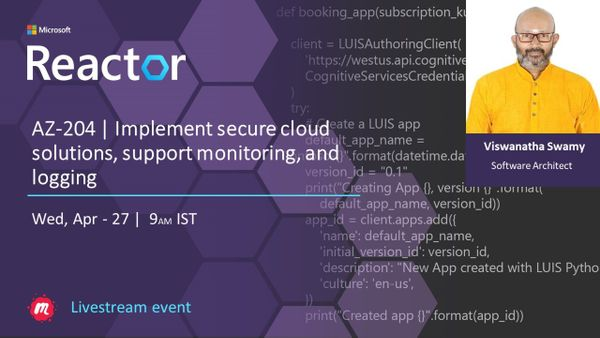
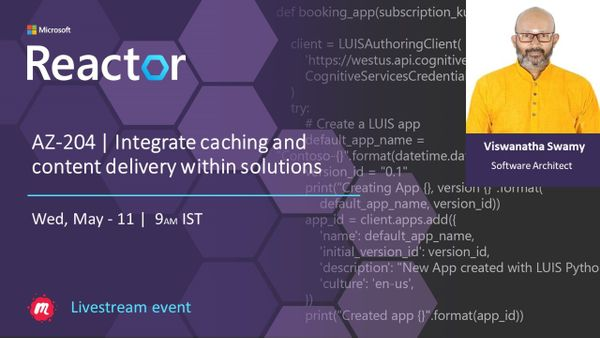
ReadMe Updates

Changed region(s): [[0.03, 0.355, 0.57, 0.5621], [0.12, 0.6213, 0.36, 0.6805]]

diff --git a/microsoft-reactor/S15_2022May11_Caching_and_CDN/README.md b/microsoft-reactor/S15_2022May11_Caching_and_CDN/README.md
@@ -1,6 +1,6 @@
-# AZ-204 | Implement Secure Cloud Solutions, Support Monitoring, and Logging
+# AZ-204 | Integrate caching and content delivery within solutions
 
-## Date Time: 24-Apr-2022 at 09:00 AM IST
+## Date Time: 11-May-2022 at 09:00 AM IST
 
 ## Event URL: [https://www.meetup.com/microsoft-reactor-bengaluru/events/284040465](https://www.meetup.com/microsoft-reactor-bengaluru/events/284040465)
 
